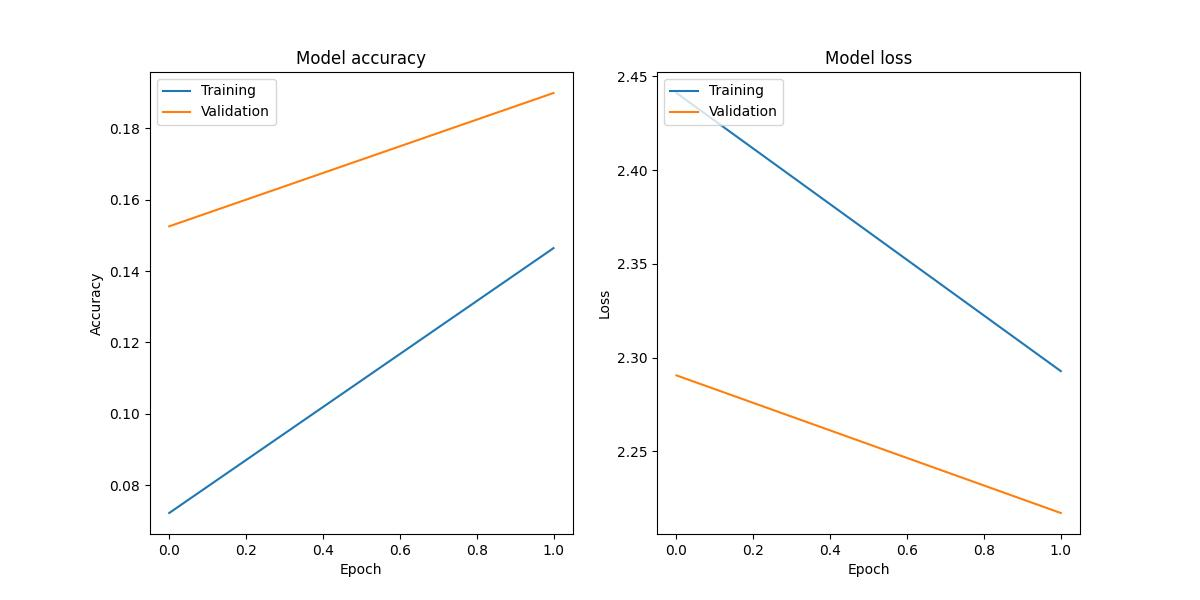
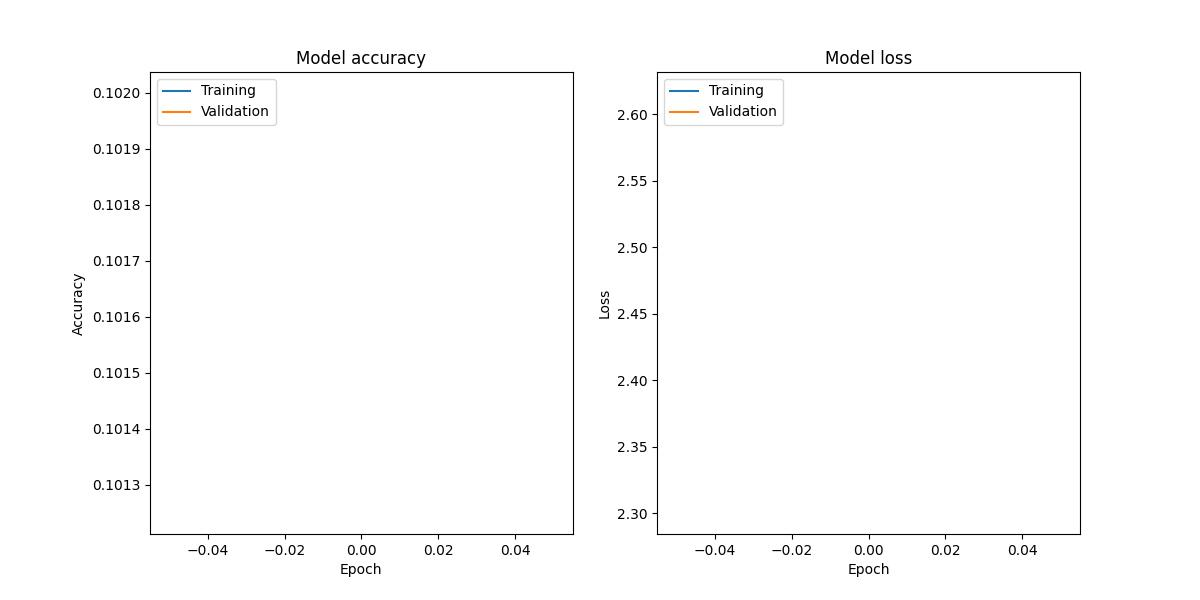
just an update

diff --git a/MainWindow.py b/MainWindow.py
@@ -31,6 +31,9 @@ class MainWindow(QMainWindow):
         # accurancy
         accurancy_label = QLabel("Target accurancy")
         self.accurancy_input = QLineEdit(f"{NeuralNetworkModel.TARGET_ACCURANCY}") # QDoubleSpinBox()
+        # learning rate
+        learning_rate_label = QLabel("learning Rate")
+        self.learning_rate_input = QLineEdit(f"{NeuralNetworkModel.LEARNING_RATE}") # QDoubleSpinBox()
         # load button
         self.load_button = QPushButton("Load model (.pkl)")
         self.load_button.clicked.connect(self.handleLoad)
@@ -45,6 +48,8 @@ class MainWindow(QMainWindow):
         right_layout.addWidget(self.iterations_input)
         right_layout.addWidget(accurancy_label)
         right_layout.addWidget(self.accurancy_input)
+        right_layout.addWidget(learning_rate_label)
+        right_layout.addWidget(self.learning_rate_input)
         right_layout.addWidget(self.train_button)
         right_layout.addWidget(self.load_button)
         right_layout.addWidget(self.scroll_area)
@@ -98,11 +103,15 @@ class MainWindow(QMainWindow):
             target_accurancy = float(self.accurancy_input.text())
         except Exception:
             target_accurancy = None
+        try:
+            learning_rate = float(self.learning_rate_input.text())
+        except Exception:
+            learning_rate = None
         
         self.train_button.setText("Training model, please wait ...")
         self.training_label.setText("")
         self.model = NeuralNetworkModel()
-        self.worker = ParallelWorker(self.scroll_area, self.training_label, iterations, target_accurancy, self.model)
+        self.worker = ParallelWorker(self.scroll_area, self.training_label, iterations, target_accurancy, learning_rate, self.model)
         self.worker.result_signal.connect(self.trainFinished)
         self.worker.start()
         self.canvas.set_model(self.model)
@@ -128,22 +137,21 @@ class MainWindow(QMainWindow):
 class ParallelWorker(QThread):
     result_signal = pyqtSignal()
 
-    def __init__(self, scroll_area: QScrollArea, label: QLabel, iterations: int, target_accurancy: float, model: NeuralNetworkModel):
+    def __init__(self, scroll_area: QScrollArea, label: QLabel, iterations: int, target_accurancy: float, learning_rate: float, model: NeuralNetworkModel):
         super().__init__()
         self.scroll_area = scroll_area
         self.label = label
         self.iterations = iterations
         self.target_accurancy = target_accurancy
+        self.learning_rate = learning_rate
         self.model = model
 
 
     def run(self):
-        # (X_train, Y_train), (X_test, Y_test) = self.model.load_data()
-        training = self.model.train(target_accurancy=self.target_accurancy, epochs=self.iterations)
+        training = self.model.train(target_accurancy=self.target_accurancy, epochs=self.iterations, learning_rate=self.learning_rate)
         try:
             while True:
                 text, epoch, train_accurancy, train_loss, val_accurancy, val_loss = next(training)
-                # print(text)
                 self.label.setText(f"{self.label.text()}\n{text}")
                 # Scroll to the bottom of the QScrollArea
                 sleep(0.1)

diff --git a/NeuralNetworkModel.py b/NeuralNetworkModel.py
@@ -70,10 +70,10 @@ class NeuralNetworkModel(object):
         self.init_params()
         self.training_history.init(epochs)
         train_accurancy = 0
-        epoch = 1
+        epoch = 0
         timer_start = datetime.now()
         
-        while (epochs != None and epoch <= epochs) or (target_accurancy != None and train_accurancy < target_accurancy):
+        while (epochs != None and epoch < epochs) or (target_accurancy != None and train_accurancy < target_accurancy):
             # training
             Z1, A1, Z2, A2 = self.forward_propagation(X_train)
             train_accurancy, train_loss = self.evaluate_model(A2, Y_train)

diff --git a/TrainingHistory.py b/TrainingHistory.py
@@ -89,4 +89,5 @@ class TrainingHistory(object):
         ax2.legend(['Training', 'Validation'], loc='upper left')
         
         plt.savefig(filename)
+        plt.title("Training vs Validation")
         plt.show()
